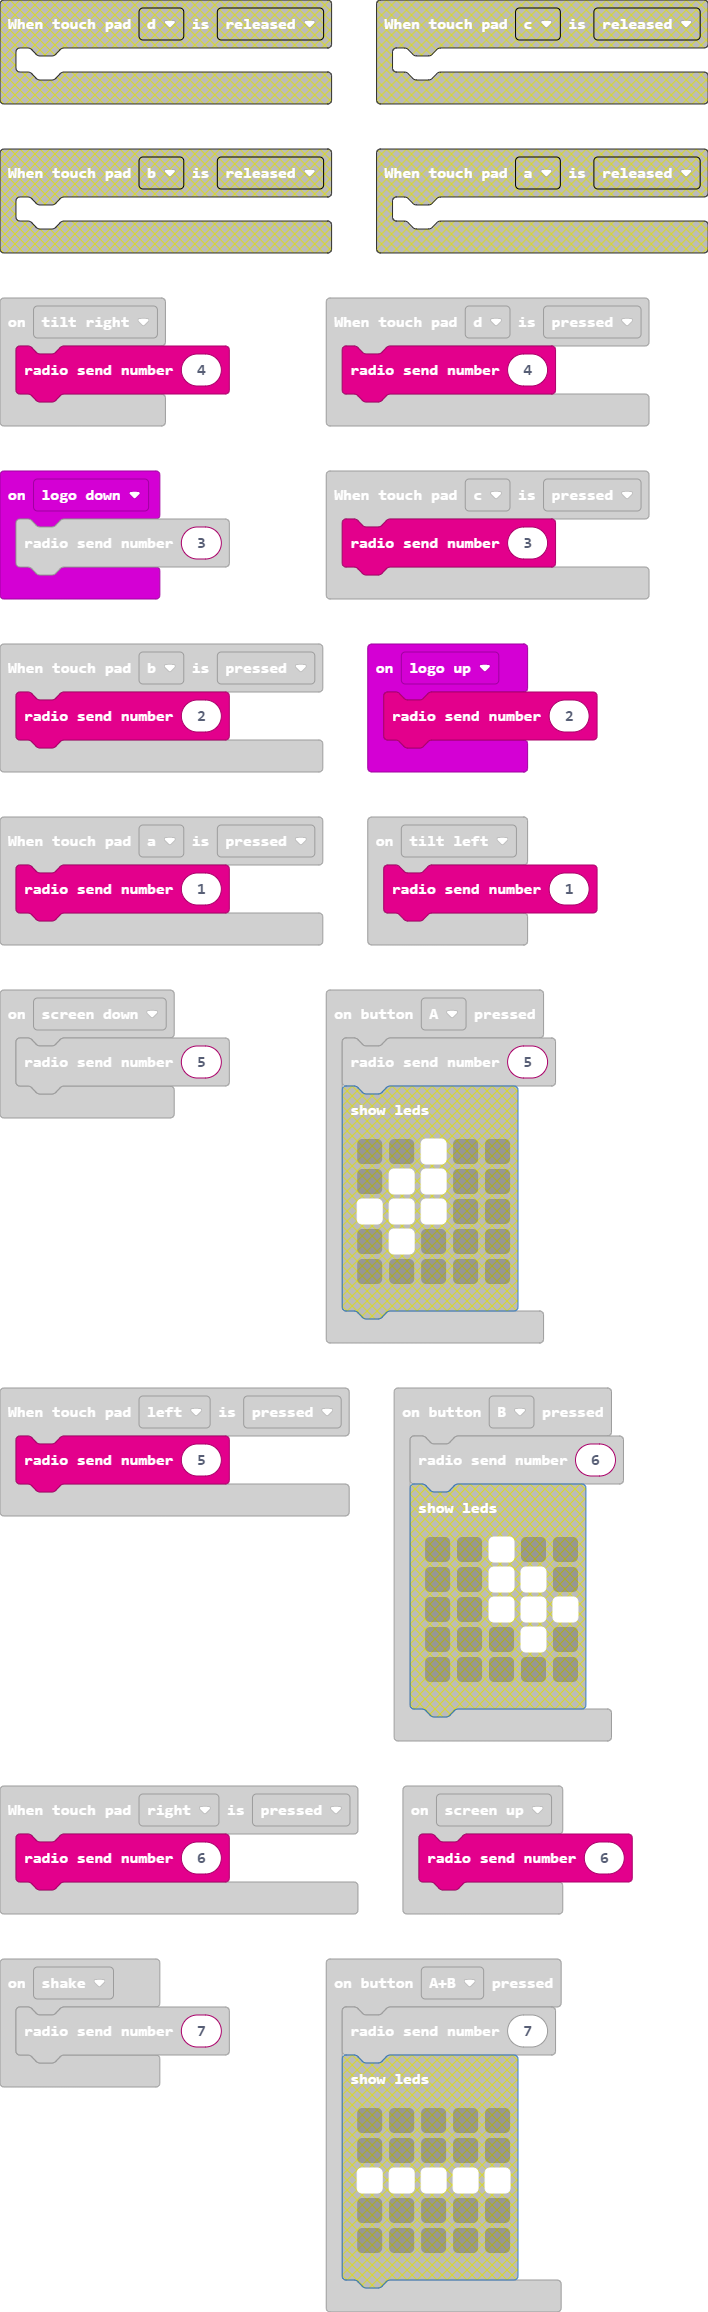
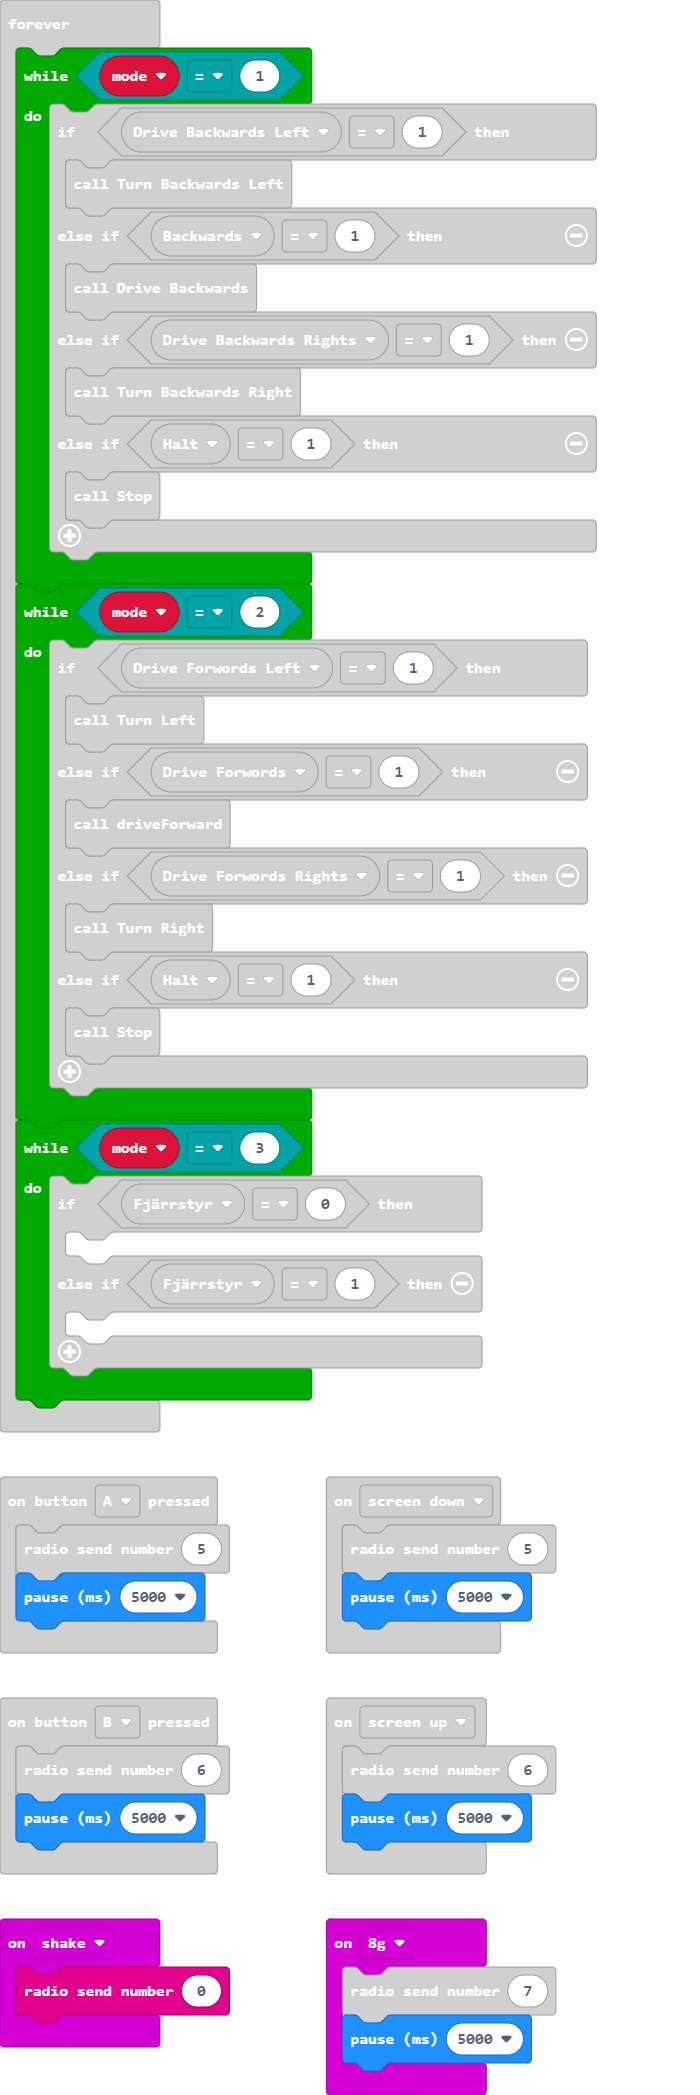
modus

diff --git a/main.ts b/main.ts
@@ -58,6 +58,10 @@ function lights_1 () {
     basic.pause(200)
     bitbot.ledClear()
 }
+input.onGesture(Gesture.EightG, function () {
+    radio.sendNumber(7)
+    basic.pause(5000)
+})
 touchbit.on(touchbit.TouchPad.b, touchbit.TouchEvent.pressed, function () {
     radio.sendNumber(2)
 })
@@ -85,6 +89,7 @@ function lights_3 () {
 }
 input.onButtonPressed(Button.A, function () {
     radio.sendNumber(5)
+    basic.pause(5000)
 })
 function Line_followers () {
     for (let index = 0; index < 1e+103; index++) {
@@ -147,6 +152,7 @@ function Lights2 () {
 }
 input.onGesture(Gesture.ScreenUp, function () {
     radio.sendNumber(6)
+    basic.pause(5000)
 })
 touchbit.on(touchbit.TouchPad.right, touchbit.TouchEvent.pressed, function () {
     radio.sendNumber(6)
@@ -159,6 +165,7 @@ function radio2 (receivedNumber: number) {
 }
 input.onGesture(Gesture.ScreenDown, function () {
     radio.sendNumber(5)
+    basic.pause(5000)
 })
 touchbit.on(touchbit.TouchPad.c, touchbit.TouchEvent.pressed, function () {
     radio.sendNumber(3)
@@ -174,9 +181,10 @@ function lights_2 () {
 }
 input.onButtonPressed(Button.B, function () {
     radio.sendNumber(6)
+    basic.pause(5000)
 })
 input.onGesture(Gesture.Shake, function () {
-    radio.sendNumber(7)
+    radio.sendNumber(0)
 })
 function driveForward () {
     Lights_forward()
@@ -298,10 +306,8 @@ basic.forever(function () {
     }
 })
 basic.forever(function () {
-    let Control = 0
-    let Framåt = 0
-    let Bakåt = 0
-    while (Bakåt == 1) {
+    let mode = 0
+    while (mode == 1) {
         if (Drive_Backwards_Left == 1) {
             Turn_Backwards_Left()
         } else if (Backwards == 1) {
@@ -312,7 +318,7 @@ basic.forever(function () {
             Stop()
         }
     }
-    while (Framåt == 1) {
+    while (mode == 2) {
         if (Drive_Forwords_Left == 1) {
             Turn_Left()
         } else if (Drive_Forwords == 1) {
@@ -323,7 +329,7 @@ basic.forever(function () {
             Stop()
         }
     }
-    while (Control == 1) {
+    while (mode == 3) {
         if (Fjärrstyr == 0) {
         	
         } else if (Fjärrstyr == 1) {
